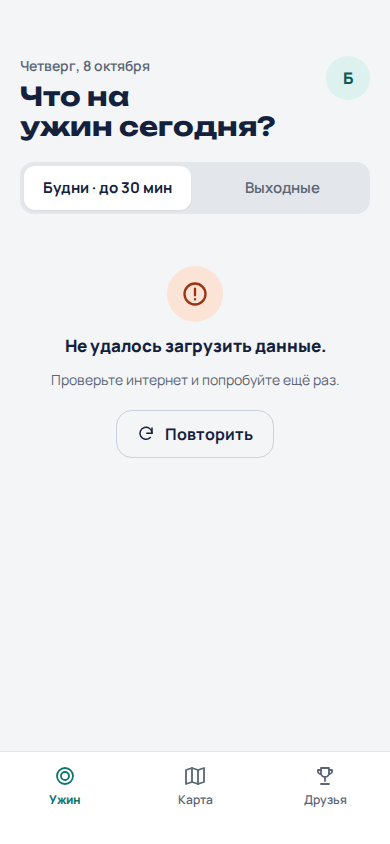
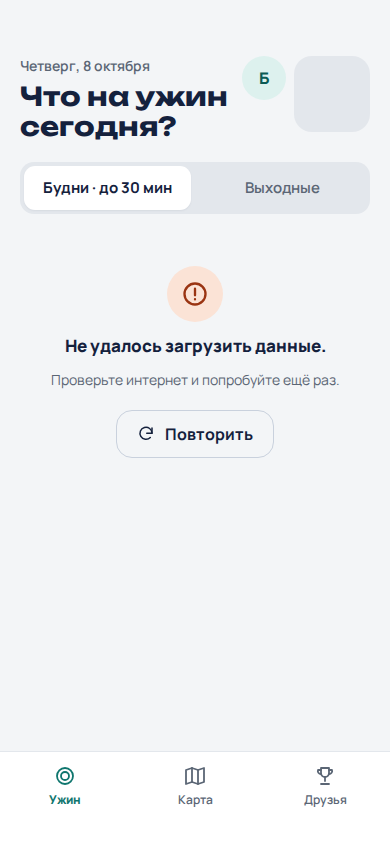
task 05: address review — boundary and relaxation tests, locked card e2e, keep counter tile place on error
Claude-Session: https://claude.ai/code/session_01R9pxBEq3oMRJTctHVFjyCy

Changed region(s): [[0.0308, 0.0924, 0.7077, 0.1848]]

diff --git a/packages/shared/src/suggestions.test.ts b/packages/shared/src/suggestions.test.ts
@@ -228,6 +228,17 @@ describe('suggestDishes: 14 days and relaxation', () => {
     expect(ids(result)).toEqual(['a-1']);
     expect(result.suggestions[0]?.label).toEqual({ kind: 'cookedBefore' });
   });
+  it('a cook exactly 14 days ago is not recent; a moment later than that it is', () => {
+    const dishes = [dish('a-1'), dish('a-2'), dish('b-1'), dish('c-1')];
+    const exactly = run({ dishes, cooks: [cook('a-1', 14)] });
+    expect(exactly.pageCount).toBe(2);
+    expect([...ids(exactly), ...ids(run({ dishes, cooks: [cook('a-1', 14)], page: 1 }))]).toContain(
+      'a-1',
+    );
+    const justInside = run({ dishes, cooks: [cook('a-1', 14 - 1 / DAY_MS)] });
+    expect(justInside.pageCount).toBe(1);
+    expect(ids(justInside)).not.toContain('a-1');
+  });
 });
 
 describe('suggestDishes: pages', () => {
@@ -304,6 +315,61 @@ describe('suggestDishes: free user with 10 countries', () => {
     const result = run({ dishes, cooks, user: { customExclusions: ['n1', 'n2'] } });
     expect(result.suggestions).toHaveLength(3);
     expect(result.suggestions.every((s) => !s.locked)).toBe(true);
+  });
+  it('relaxes up to 2 open dishes: recent cooks first (oldest first)', () => {
+    const recent = passed.map((country, index) => cook(`${country}-1`, 1 + index));
+    const result = run({
+      dishes: [...passed.map((country) => dish(`${country}-1`)), dish('n1-1')],
+      cooks: recent,
+    });
+    expect(result.pageCount).toBe(1);
+    expect(result.suggestions).toEqual([
+      { dishId: 'p9-1', label: { kind: 'cookedBefore' }, locked: false },
+      { dishId: 'p8-1', label: { kind: 'cookedBefore' }, locked: false },
+      { dishId: 'n1-1', label: { kind: 'newCountry' }, locked: true },
+    ]);
+  });
+
+  it('on weekdays adds a longer dish to fill the 2 open places, the closest time first', () => {
+    // Countries are passed with weekend dishes; weekday dishes: one fits 30 min, two are longer.
+    const weekendCooks = passed.map((country) => cook(`${country}-w`, 30));
+    const result = run({
+      dishes: [
+        dish('p0-1', { minutes: 20 }),
+        dish('p1-1', { minutes: 60 }),
+        dish('p2-1', { minutes: 35 }),
+        dish('n1-1', { minutes: 20 }),
+      ],
+      cooks: weekendCooks,
+    });
+    expect(result.pageCount).toBe(1);
+    expect(ids(result)).toEqual(['p0-1', 'p2-1', 'n1-1']);
+    expect(result.suggestions[0]?.label).toEqual({ kind: 'nthDish', n: 2 });
+    expect(result.suggestions[2]?.locked).toBe(true);
+  });
+
+  it('weekends: the locked card is a weekend or challenge dish and goes round with the pages', () => {
+    const weekdayCooks = passed.map((country) => cook(`${country}-d`, 30));
+    const weekendDishes = [
+      ...passed.map((country) => dish(`${country}-1`, { level: 'weekend' })),
+      dish('n1-1', { level: 'weekend', minutes: 90 }),
+      dish('n1-2', { level: 'challenge', minutes: 150 }),
+      dish('n2-1', { level: 'weekend', minutes: 60 }),
+      dish('n3-1', { level: 'weekday' }),
+    ];
+    const lockedOn = (page: number) => {
+      const result = run({ dishes: weekendDishes, cooks: weekdayCooks, mode: 'weekend', page });
+      expect(result.pageCount).toBe(5);
+      expect(result.suggestions).toHaveLength(3);
+      const last = result.suggestions[2];
+      expect(last?.locked).toBe(true);
+      return last?.dishId;
+    };
+    const firstThree = [lockedOn(0), lockedOn(1), lockedOn(2)];
+    expect(new Set(firstThree)).toEqual(new Set(['n1-1', 'n1-2', 'n2-1']));
+    expect(lockedOn(3)).toBe(firstThree[0]);
+    expect(lockedOn(4)).toBe(firstThree[1]);
+    expect(lockedOn(5)).toBe(firstThree[0]); // page 5 → page 0
   });
 });
 

diff --git a/e2e/home.spec.ts b/e2e/home.spec.ts
@@ -81,6 +81,43 @@ test.describe('dinner today', () => {
     await expect(cards(page).nth(0)).toHaveAttribute('href', /^\/dishes\//);
     await expect(cards(page).nth(0)).not.toContainText('Новая страна');
     await shot(page, '04-locked');
+
+    // «Показать другие»: the next 2 open dishes and the next locked one, still last.
+    const firstPage = await cardTitles(page);
+    const firstLocked = await locked.getAttribute('href');
+    await page.getByRole('button', { name: 'Показать другие' }).click();
+    await expect.poll(async () => (await cardTitles(page)).join('|')).not.toBe(firstPage.join('|'));
+    await expect(cards(page)).toHaveCount(3);
+    await expect(locked).toContainText('Откроется с подпиской');
+    await expect(locked).toHaveAttribute('href', /^\/paywall\?dish=/);
+    expect(await locked.getAttribute('href')).not.toBe(firstLocked);
+    for (const index of [0, 1]) {
+      await expect(cards(page).nth(index)).toHaveAttribute('href', /^\/dishes\//);
+    }
+    await shot(page, '08-locked-show-more');
+
+    // Weekends: the locked card follows the mode.
+    await mode(page, /Выходные/).click();
+    await expect(mode(page, /Выходные/)).toHaveAttribute('aria-pressed', 'true');
+    await expect(cards(page)).toHaveCount(3);
+    await expect(locked).toContainText('Откроется с подпиской');
+    await expect(locked).toHaveAttribute('href', /^\/paywall\?dish=(th|co)-/);
+    for (const index of [0, 1]) {
+      await expect(cards(page).nth(index)).toContainText(/Выходные|Вызов/);
+    }
+    await shot(page, '09-locked-weekend');
+  });
+
+  test('a subscriber with 10 countries sees 3 open dishes without a lock', async ({ page }) => {
+    await page.goto('/?user=1004&mock_reset=1');
+    await expect(cards(page)).toHaveCount(3);
+    await expect(suggestions(page)).not.toContainText('Откроется с подпиской');
+    for (const href of await cards(page).evaluateAll((links) =>
+      links.map((link) => link.getAttribute('href')),
+    )) {
+      expect(href).toMatch(/^\/dishes\//);
+    }
+    await shot(page, '10-subscribed');
   });
 
   test('loading and error states, retry', async ({ page }) => {
@@ -90,6 +127,9 @@ test.describe('dinner today', () => {
     await shot(page, '05-loading');
 
     await expect(page.getByRole('alert')).toHaveText('Не удалось загрузить данные.');
+    // The counter tile keeps its place (a skeleton), so the header does not jump.
+    const title = await page.getByRole('heading', { level: 1 }).boundingBox();
+    expect(title?.width).toBeLessThan(260);
     await shot(page, '06-error');
     await page.getByRole('button', { name: 'Повторить' }).click();
     await expect(cards(page)).toHaveCount(3);

diff --git a/apps/web/src/screens/home/HomeScreen.tsx b/apps/web/src/screens/home/HomeScreen.tsx
@@ -53,8 +53,8 @@ function Avatar({ user }: { user: UserProfile }) {
 }
 
 /** «7/30 стран»: the passport counter, opens the map. */
-function CountriesTile({ data, failed }: { data: HomeResponse | undefined; failed: boolean }) {
-  if (!data && failed) return null;
+/** Without data (loading or error) a skeleton keeps the tile's place, so the header does not jump. */
+function CountriesTile({ data }: { data: HomeResponse | undefined }) {
   if (!data) return <Skeleton width={76} height={76} className="rounded-card" />;
   return (
     <Link
@@ -221,7 +221,7 @@ export function HomeScreen({ user }: { user: UserProfile }) {
           </div>
           <div className="flex shrink-0 items-start gap-2">
             <Avatar user={user} />
-            <CountriesTile data={data} failed={isError} />
+            <CountriesTile data={data} />
           </div>
         </header>
         <ModeSwitch

diff --git a/docs/progress.md b/docs/progress.md
@@ -24,6 +24,7 @@
 - Проверено: npm run check ✓ (стартовый JS 138.21 kB gzip из 200 kB, CSS 5.46 kB из 20 kB), npm run e2e ✓ (19 сценариев), скриншоты docs/screens/task-05/
 - Решения: docs/decisions/0007-dinner-today-suggestions.md
 - Осталось / сомнения: экранов блюда, карты, пейвола и профиля ещё нет — ссылки ведут на объявленные маршруты, роутер возвращает на главный; на экране 390 × 844 кнопка «Показать другие» уходит под таб-бар (видна после прокрутки), т. к. название на большой карточке часто в две строки; событие `suggestions_shown` — задача 22.
+- После ревью: юнит-тесты на границу ровно 14 дней, ослабление при 2 открытых местах (недавние готовки, длинные блюда в «Будни») и карточку с замком в «Выходные» с возвратом по кругу; e2e: 1003 — «Показать другие» листает замок, «Выходные» с замком; 1004 — 3 карточки без замка; при ошибке `GET /home` плитка стран остаётся скелетоном, шапка не прыгает. Скриншоты 08–10 добавлены, 06 переснят; проверено: npm run check ✓ (133 теста, JS 138.19 kB), npm run e2e ✓ (20 сценариев).
 
 ### Харнес: экономия лимита (2026-10-10, ветка chore/cheaper-pipeline)
 - Сделано: `spec-reviewer` и `ui-verifier` работают на Sonnet (`model: sonnet` во frontmatter); исполнитель, запущенный оркестратором, не запускает ревьюеров — ревью один раз делает оркестратор; продуктовые вопросы исполнитель возвращает до кода; скриншоты `docs/screens/` снимают e2e-сценарии (`shot` в `e2e/fixtures.ts`, `SCREENS=task-NN npm run e2e`), `ui-verifier` смотрит PNG и в браузере проверяет только непокрытое; после правок по ревью оркестратор проверяет дифф правок сам, без полного повторного ревью (CLAUDE.md, скилл `/task`).
